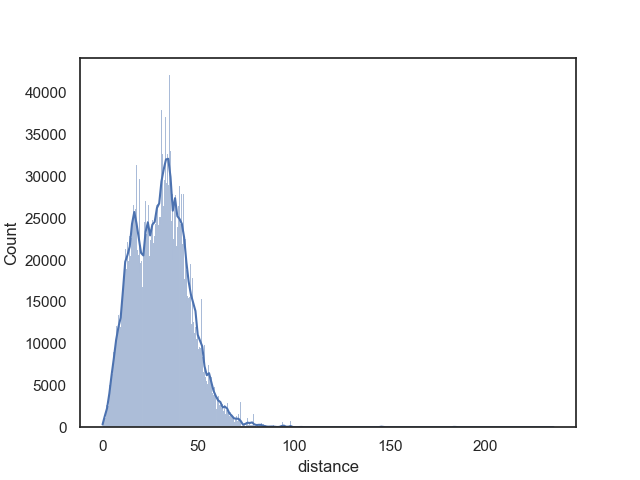
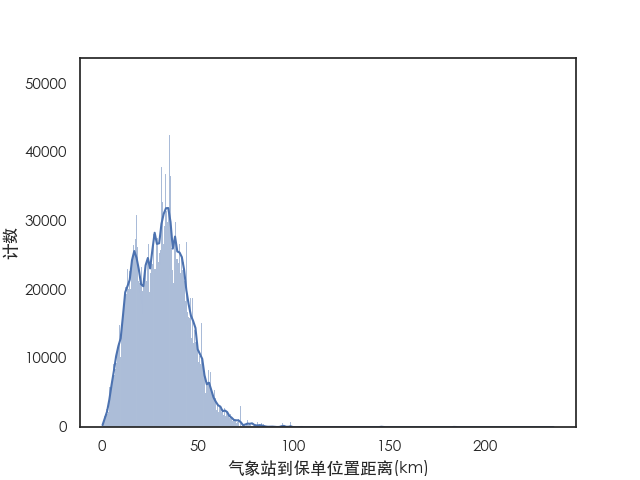
答辩前ppt

diff --git a/src/temp.py b/src/temp.py
@@ -1,0 +1,58 @@
+# %%
+import pandas as pd
+import matplotlib.pyplot as plt
+import seaborn as sns
+from sqlalchemy import create_engine
+import statsmodels.formula.api as smf
+from pyecharts.charts import Geo
+from pyecharts import options as opts
+from pyecharts.globals import ChartType
+from pyecharts.render import make_snapshot
+from snapshot_phantomjs import snapshot
+
+# %load_ext sql
+sns.set_style("white", {"font.sans-serif": ["STHeiti"], "figsize": (8, 6)})
+engine_str = "clickhouse+native://localhost/thesis"
+# engine_str = "clickhouse+native://default:Z4cfvnADI5MM.@simfv776a0.ap-south-1.aws.clickhouse.cloud/thesis"
+# %sql $engine_str
+
+distance = pd.read_sql("res", con=engine_str)
+dist = distance["distance"]
+dist.name = "气象站到保单位置距离(km)"
+p = sns.histplot(dist, fill=True, kde=True)
+p.set_ylabel("计数")
+plt.savefig("../lib/img/distance.png")
+
+# %%
+locations = pd.read_sql(
+    """with asdf as(
+    select
+        *
+    from
+        locations hr,
+        locations hr2
+)
+select
+    *,
+    geoDistance(
+        asdf.`经度`,
+        asdf.`纬度`,
+        asdf.`hr2.经度`,
+        asdf.`hr2.纬度`
+    )/1000 as dist
+from
+    asdf
+order by dist""",
+    con=engine_str,
+)
+locations = locations[~(locations["区站号"] == locations["hr2.区站号"])]
+locations = locations.sort_values(
+    by=["区站号", "dist"], ascending=[True, True]
+).drop_duplicates(subset=["区站号"], keep="first")
+locations = locations["dist"]
+locations.name = "气象站间距离(km)"
+p = sns.histplot(locations, kde=True)
+p.set_ylabel("计数")
+plt.savefig("../lib/img/locations_distance.png")
+
+# %%

diff --git a/chap/chap3.tex b/chap/chap3.tex
@@ -73,7 +73,7 @@
 \section{稳健性检验}
 \subsection{平行趋势检验}
 
-为了验证DID实证结果的稳健性，需要进行平行趋势检验。表\ref{tab:robust}展示了平行趋势检验的结果，并可视化如图\ref{fig:robust}。本文分别将实验组设置为灾区和近灾区($\text{Treat}=\text{Disaster}$以及$\text{Treat}=\text{Neighbor}$)，对极端天气事件发生前四个季度的保额进行回归。回归结果显示交互项的系数都不显著，这表明在极端天气事件发生前，实验组和对照组的保额水平基本是平行的，满足平行趋势假设，可以通过DID方法来估计极端天气事件对家财险需求的影响。
+为了验证DID实证结果的稳健性，需要进行平行趋势检验。表\ref{tab:robust}展示了平行趋势检验的结果，并可视化如图\ref{fig:robust}。本文分别将实验组设置为灾区和近灾区($\text{Treat}=\text{Disaster}$以及$\text{Treat}=\text{Neighbor}$)，对极端天气事件发生前四年的保额进行回归。回归结果显示交互项的系数都不显著，这表明在极端天气事件发生前，实验组和对照组的保额水平基本是平行的，满足平行趋势假设，可以通过DID方法来估计极端天气事件对家财险需求的影响。
 % 唯一表现出显著性的部分是在灾区受灾前90天内(一个季度)的保额，这可能是因为20年一遇的极端降水往往是持续较久的，灾区居民达到20年一遇的门槛前已经开始感知到风险，从而提前购买了保险。
 
 \begin{figure}[H]

diff --git a/lib/table/premiumdid.tex b/lib/table/premiumdid.tex
@@ -17,7 +17,7 @@
                         & (0.004)                                                              & (0.004)           & (0.003)           & (0.003)           & (0.004)           & (0.004)           \\
     Intercept           & 6.017$^{***}$                                                        & 5.950$^{***}$     & 11.041$^{***}$    & 10.985$^{***}$    & 10.688$^{***}$    & 10.662$^{***}$    \\
                         & (0.005)                                                              & (0.005)           & (0.004)           & (0.004)           & (0.005)           & (0.005)           \\
-    Controls            & True                                                                 & True              & True              & True              & True              & True              \\
+    Controls            & Yes                                                                  & Yes               & Yes               & Yes               & Yes               & Yes               \\
     %  Prem\_before & -0.950$^{***}$ & -0.958$^{***}$ & 0.239$^{***}$ & 0.244$^{***}$ & 0.245$^{***}$ & 0.254$^{***}$ \\
     % & (0.007) & (0.007) & (0.005) & (0.005) & (0.005) & (0.006) \\
     %  log(GDP) & -0.001$^{***}$ & -0.001$^{***}$ & 0.001$^{***}$ & 0.001$^{***}$ & 0.001$^{***}$ & 0.001$^{***}$ \\

diff --git a/chap/chap4.tex b/chap/chap4.tex
@@ -4,7 +4,7 @@
 
 本研究通过对极端降水冲击的准自然实验，探讨了极端天气事件对家财险需求的影响。基于某保险公司的家财险数据，采用差分分析方法，我们得出了以下主要结论：
 \begin{enumerate}
-    \item 极端天气事件显著提高了居民的风险感知，尤其是对于近灾区的居民。这种风险感知的提升促使居民更加关注家庭财产的保护，从而增加了对家财险的需求，近灾区居民保险在冲击发生后保额需求提升约24\%。这表明在面对气候变化带来的风险时，公众的保险意识有所增强。
+    \item 极端天气事件显著提高了居民的风险感知，尤其是对于近灾区的居民。这种风险感知的提升促使居民更加关注家庭财产的保护，从而增加了对家财险的需求，近灾区居民在极端天气事件冲击后保额需求提升约24\%。这表明在面对气候变化带来的风险时，公众的保险意识有所增强。
 
     \item 但与此同时，对于直接受到极端天气事件冲击的地区，家财险需求并未显著增加，反而可能减少约18\%。这背后可能是由于家庭认为短期内再次遭受巨灾的概率不大，因而在受灾后对家财险需求减少。
 

diff --git a/lib/table/renew.tex b/lib/table/renew.tex
@@ -1,6 +1,7 @@
 \begin{tabular}{@{\extracolsep{5pt}}lccc}
     \\[-1.8ex]\hline
     \hline                                                                                                                         \\[-1.8ex]
+    \\[-1.8ex] & logit(Claimed) & logit(Renew) & log(Coverage) \\
     \\[-1.8ex] & (1) & (2) & (3) \\
     \hline                                                                                                                         \\[-1.8ex]
     % C(ti)[T.10]         & 10.568$^{}$                                                          & 12.185$^{}$    & -1.217$^{***}$   \\
